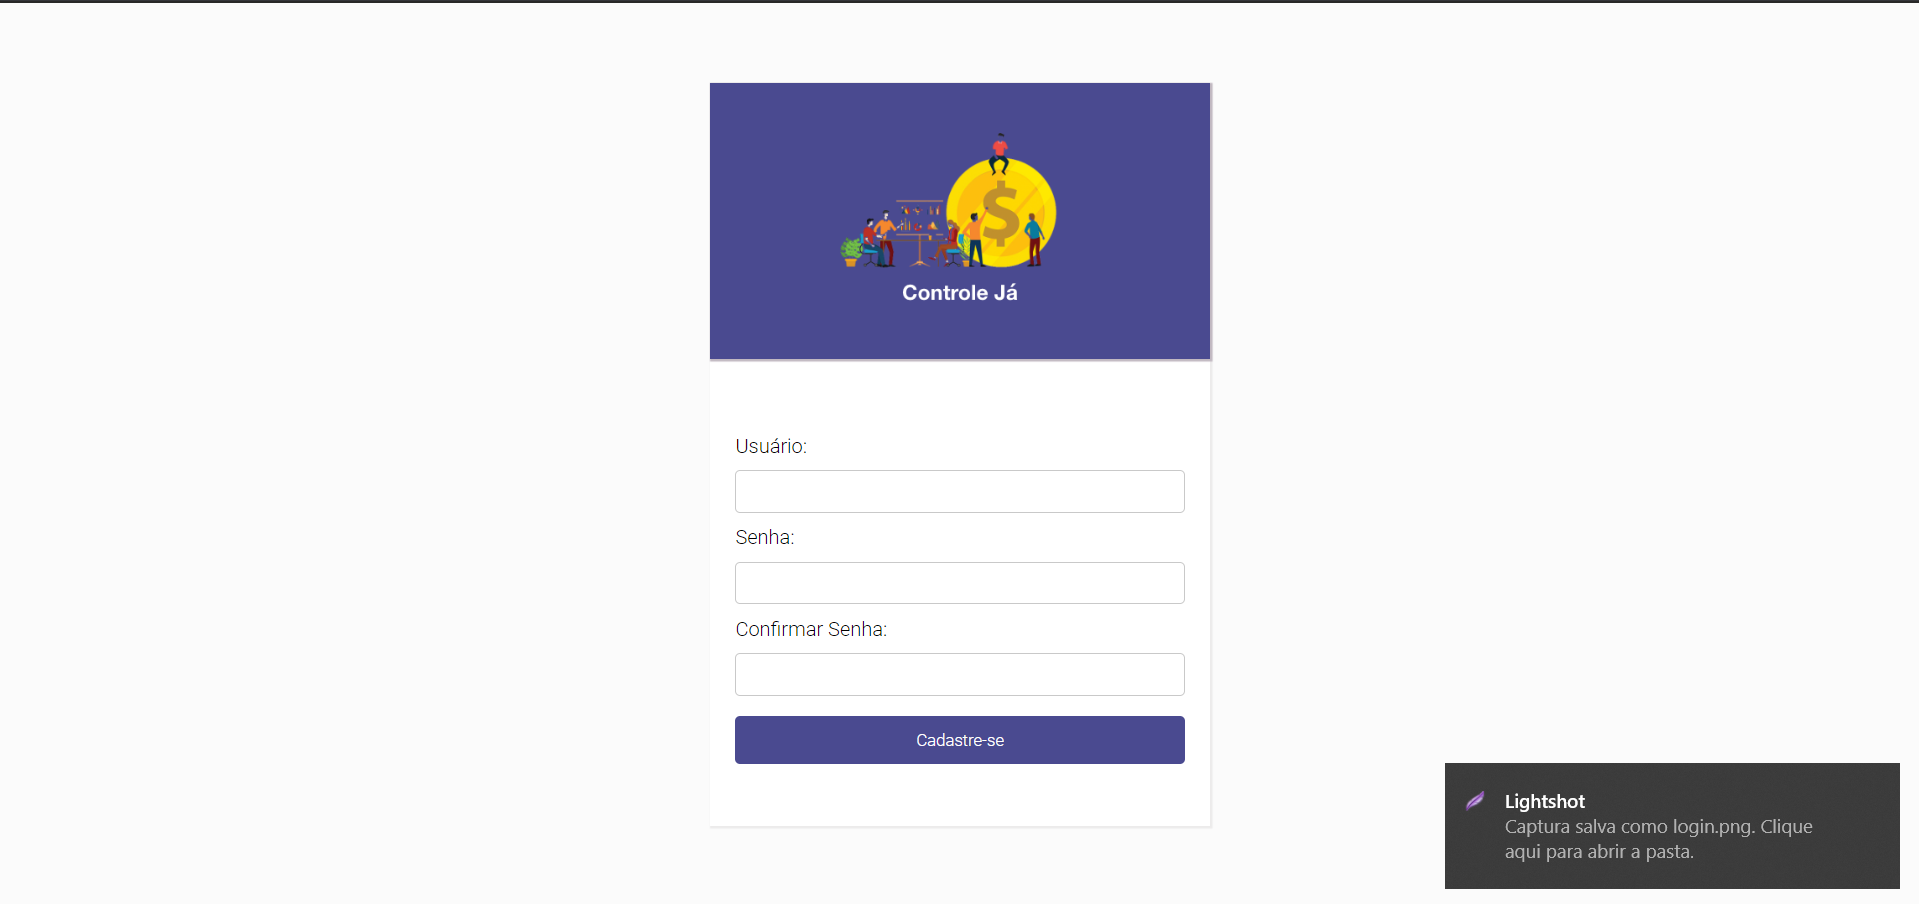
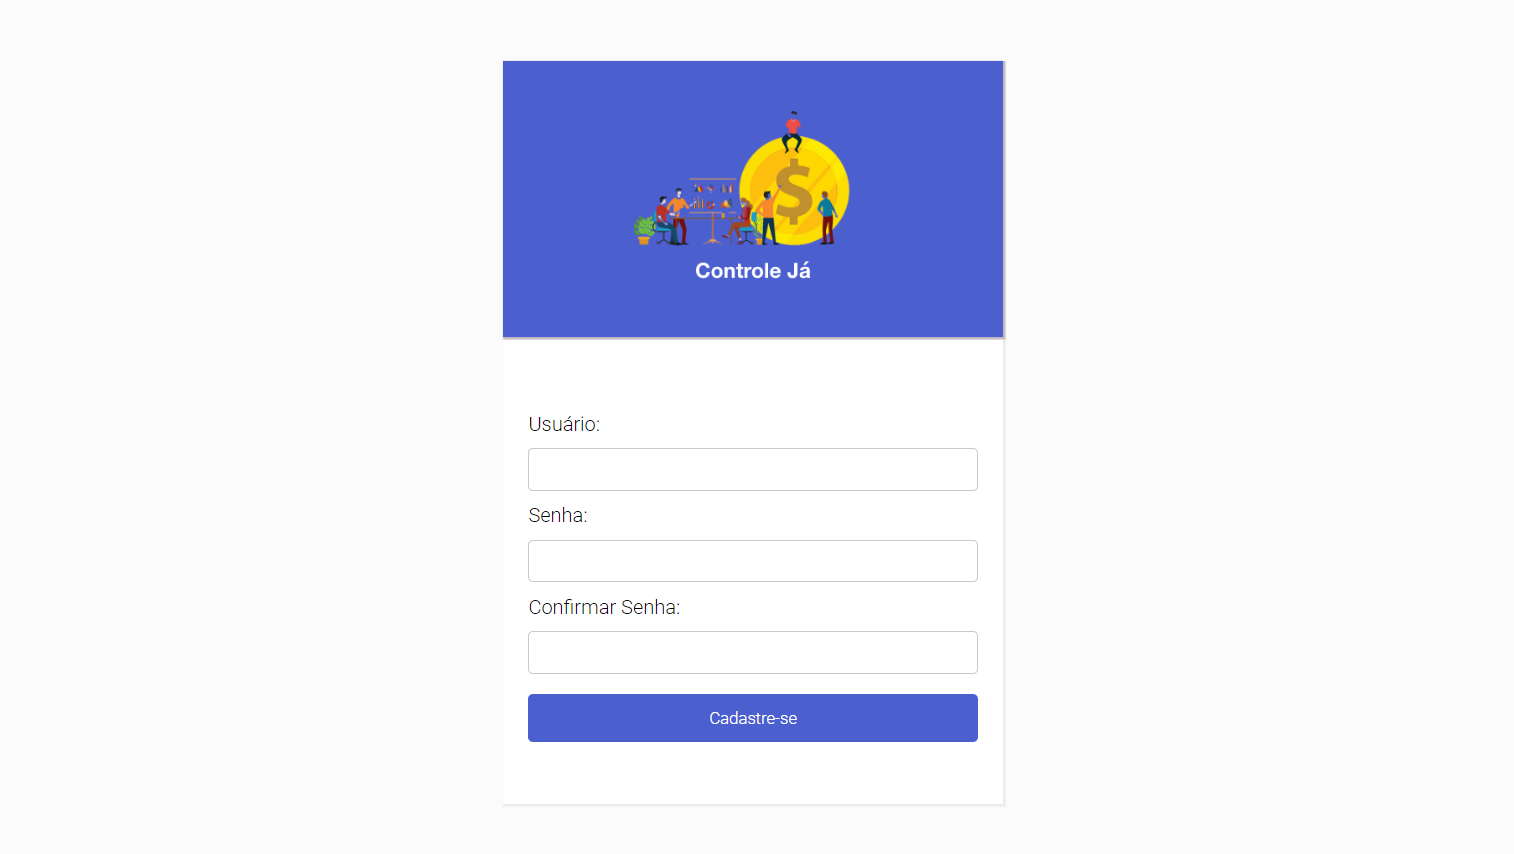
Correção graficas e autenticação

diff --git a/public/main.css b/public/main.css
@@ -16,7 +16,7 @@ html,body{
 }
 
 :root{
-    --main-color: #4a4a90;
+    --main-color: #4b5fcf;
 }
 
 .input-container,
@@ -50,6 +50,7 @@ html,body{
 .login{
     box-shadow: 1px 1px 1px 1px #ecebeb; 
     width:90%;
+    display: f;
     background: #fff;
 }
 
@@ -99,7 +100,7 @@ html,body{
 .header-menu{
     display: flex;
     justify-content: flex-start;
-    padding:1.3rem;
+    padding:1.2rem;
 }
 
 .header-menu .logo h1{
@@ -118,8 +119,9 @@ html,body{
 .content-finan{
     background: #fff;
     box-shadow: 1px 1px 1px 1px #dededf;
-    height: 15vh;
+    height: 13vh;
     padding: 10px 15px;
+    
 }
 
 .content-finan .titulo{
@@ -294,10 +296,14 @@ html,body{
     background: var(--main-color);
     border: none;
     color: #fff;
-    padding: 12px 14px;
+    padding: 10px 12px;
+    border-radius: 4px;
     font-weight: bold;
     cursor: pointer;
     margin-left: 5px;
+    margin-bottom: 10px;
+    font-size: .8rem;
+    box-shadow: 1px 1px 1px 1px #dededf;
 }
 
 .add-movimentacao{
@@ -341,6 +347,7 @@ html,body{
 
     .btn-group button{
         width: auto;
+        margin-bottom: unset;
     }
 
     .vindas{
@@ -355,7 +362,7 @@ html,body{
 
     .content-finan{
         width: 100%;
-        padding: 25px 20px;
+        padding: 20px 20px;
         height: 10vh;
     }
 
@@ -369,4 +376,5 @@ html,body{
     .body-sub{
         padding:15px 15px;
     }
+    
 }

diff --git a/src/views/login.vue b/src/views/login.vue
@@ -55,7 +55,7 @@ export default {
                 login:  this.usuario,
                 senha: this.senha
             }).then(res=>{
-                 if(res.data.autenticado){
+                 if(res.data.autenticado && res.data.token != null && res.data.usuario != null){
                     this.message =  res.data.usuario;
                     this.alert = true;
                     this.hidden = true;
@@ -80,10 +80,14 @@ export default {
                     if(res.response.data && res.response.data.login){
                         this.message = 'Por favor, preencha o campo usuário';
                         this.hidden = true;
-                    }
-                    if(res.response.data && res.response.data.senha){
-                        this.message = 'Por favor, preencha o campo senha';
-                        this.hidden = true;
+                    }else{
+                        if(res.response.data && res.response.data.senha){
+                            this.message = 'Por favor, preencha o campo senha';
+                            this.hidden = true;
+                        }else{
+                            this.message = 'Usuário/ou senha inválido(s)';
+                            this.hidden = true;
+                        }
                     }
                 }
             });
